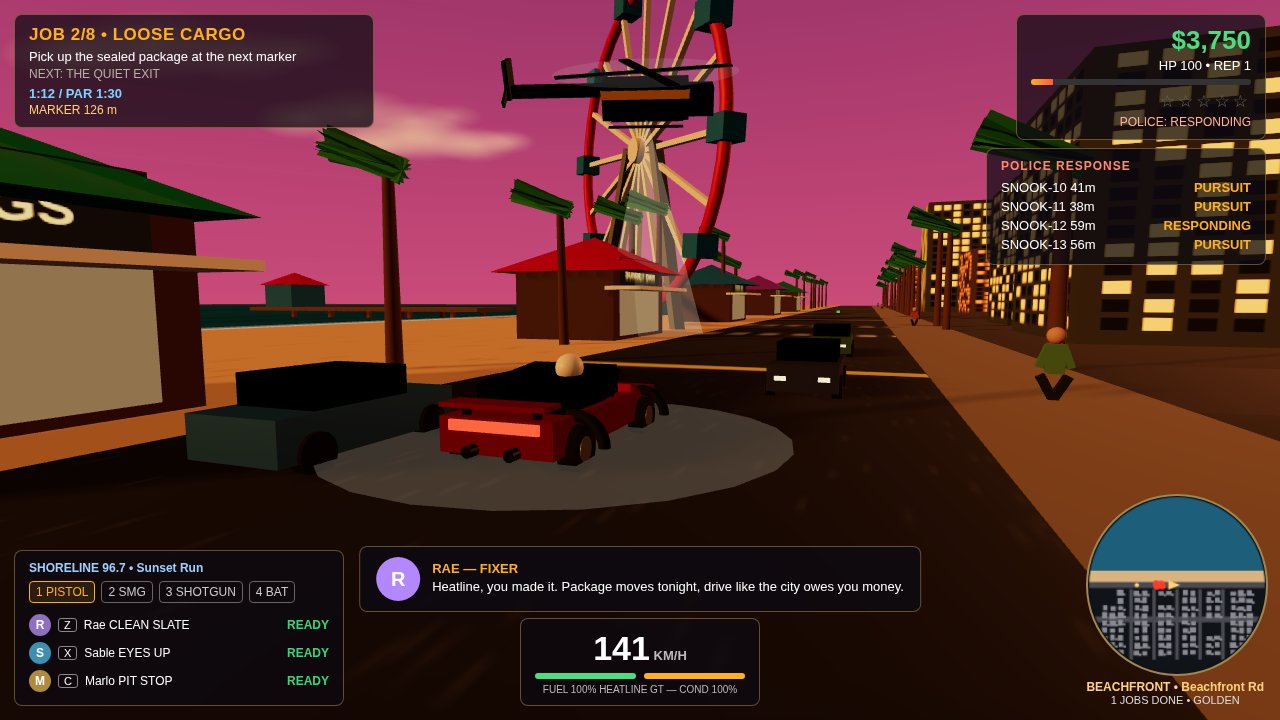
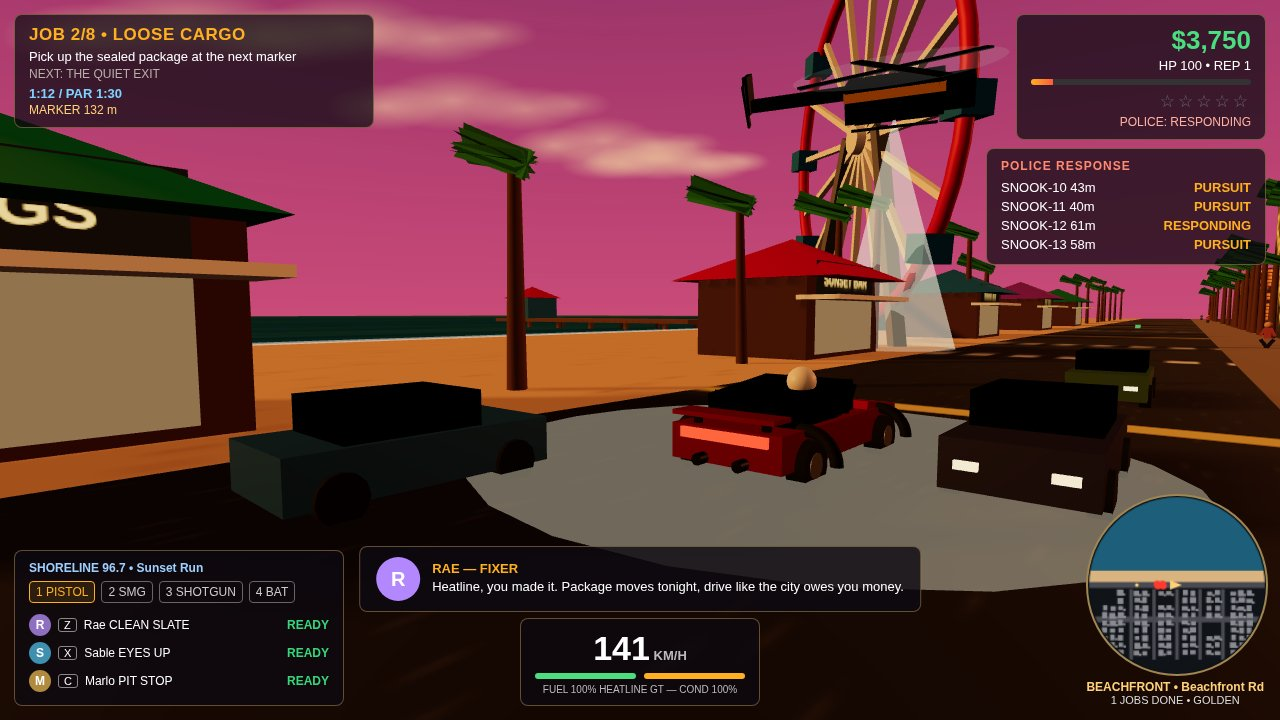
Fixer round 2 (shot 4 + shot 2): world-space pistol in full profile with steel barrel, camera-facing starburst flash, mission staged 1 alive + 2 down; heli cone 0.42 + bright pool, play camera biased to sea, foam 0.45

diff --git a/game/src/combat/fight.js b/game/src/combat/fight.js
@@ -22,38 +22,75 @@ export function buildPlayerFigure() {
     const leg = new THREE.Mesh(new THREE.BoxGeometry(0.22, 0.8, 0.22), pants);
     leg.position.set(0, 0.4, s); g.add(leg);
   }
-  // Pistol, held out on the camera side of the body where the shot
-  // camera can see it: dark slide and grip, never a pale ball.
+  // Pistol, built as a WORLD-SPACE group (not a child of the player
+  // figure): every frame updateCombat puts it at the player's gun hand
+  // and aims it along the player's aim direction, so the barrel always
+  // points at the enemy and the shot camera sees the full side profile
+  // — a big dark slide, a bright steel barrel and a dark grip, never a
+  // foreshortened blob and never a pale ball.
   const gun = new THREE.Group();
-  const grip = new THREE.Mesh(new THREE.BoxGeometry(0.11, 0.26, 0.11),
-    new THREE.MeshStandardMaterial({ color: 0x141414, roughness: 0.5, metalness: 0.4 }));
-  grip.position.y = -0.06; gun.add(grip);
-  const barrel = new THREE.Mesh(new THREE.BoxGeometry(0.5, 0.09, 0.09),
-    new THREE.MeshStandardMaterial({ color: 0x555555, roughness: 0.35, metalness: 0.8 }));
-  barrel.position.set(0.28, 0.06, 0); gun.add(barrel);
-  const slide = new THREE.Mesh(new THREE.BoxGeometry(0.42, 0.07, 0.1),
-    new THREE.MeshStandardMaterial({ color: 0x111111, roughness: 0.3, metalness: 0.8 }));
-  slide.position.set(0.26, 0.13, 0); gun.add(slide);
-  // Muzzle flash: a starburst, not a ball — a bright core plus crossed
-  // planes and a forward cone, all lit by the flash point light.
+  const grip = new THREE.Mesh(new THREE.BoxGeometry(0.14, 0.34, 0.14),
+    new THREE.MeshStandardMaterial({ color: 0x161616, roughness: 0.5, metalness: 0.4 }));
+  grip.position.set(0, -0.1, -0.05); gun.add(grip);
+  const barrel = new THREE.Mesh(new THREE.BoxGeometry(0.13, 0.13, 0.72),
+    new THREE.MeshStandardMaterial({ color: 0x9aa2ad, roughness: 0.25, metalness: 0.9 }));
+  barrel.position.set(0, 0.06, 0.37); gun.add(barrel);
+  const slide = new THREE.Mesh(new THREE.BoxGeometry(0.14, 0.1, 0.55),
+    new THREE.MeshStandardMaterial({ color: 0x0d0d0d, roughness: 0.3, metalness: 0.85 }));
+  slide.position.set(0, 0.14, 0.28); gun.add(slide);
+  const sight = new THREE.Mesh(new THREE.BoxGeometry(0.04, 0.06, 0.05),
+    new THREE.MeshBasicMaterial({ color: 0xffc860 }));
+  sight.position.set(0, 0.22, 0.58); gun.add(sight);
+  // Muzzle flash: a starburst, not a ball — a bright core, crossed
+  // spike pairs in TWO perpendicular planes (so at least one pair
+  // faces the shot camera from any angle), a forward cone, and a
+  // camera-facing starburst sprite that always reads as a flash.
   const flashGroup = new THREE.Group();
+  flashGroup.position.set(0, 0.06, 0.78);
   const flashMat = new THREE.MeshBasicMaterial({ color: 0xffe9a8, transparent: true, opacity: 0 });
-  const flashCore = new THREE.Mesh(new THREE.SphereGeometry(0.16, 8, 6), flashMat);
-  flashCore.position.set(0.6, 0.06, 0); flashGroup.add(flashCore);
+  const flashCore = new THREE.Mesh(new THREE.SphereGeometry(0.2, 8, 6), flashMat);
+  flashGroup.add(flashCore);
   const flashMat2 = new THREE.MeshBasicMaterial({ color: 0xffb020, transparent: true, opacity: 0, side: THREE.DoubleSide, depthWrite: false });
-  const spikeH = new THREE.Mesh(new THREE.PlaneGeometry(0.95, 0.22), flashMat2);
-  spikeH.position.set(0.62, 0.06, 0); flashGroup.add(spikeH);
-  const spikeV = new THREE.Mesh(new THREE.PlaneGeometry(0.22, 0.95), flashMat2);
-  spikeV.position.set(0.62, 0.06, 0); flashGroup.add(spikeV);
-  const flashCone = new THREE.Mesh(new THREE.ConeGeometry(0.24, 0.7, 10), flashMat2);
-  flashCone.rotation.z = -Math.PI / 2; flashCone.position.set(0.85, 0.06, 0); flashGroup.add(flashCone);
+  const spikeH = new THREE.Mesh(new THREE.PlaneGeometry(1.3, 0.3), flashMat2);
+  flashGroup.add(spikeH);
+  const spikeV = new THREE.Mesh(new THREE.PlaneGeometry(0.3, 1.3), flashMat2);
+  flashGroup.add(spikeV);
+  const spikeH2 = new THREE.Mesh(new THREE.PlaneGeometry(1.3, 0.3), flashMat2);
+  spikeH2.rotation.y = Math.PI / 2; flashGroup.add(spikeH2);
+  const spikeV2 = new THREE.Mesh(new THREE.PlaneGeometry(0.3, 1.3), flashMat2);
+  spikeV2.rotation.y = Math.PI / 2; flashGroup.add(spikeV2);
+  const flashCone = new THREE.Mesh(new THREE.ConeGeometry(0.3, 0.9, 10), flashMat2);
+  flashCone.rotation.x = -Math.PI / 2; flashCone.position.set(0, 0, 0.45); flashGroup.add(flashCone);
+  const starTex = (() => {
+    const c = document.createElement('canvas'); c.width = 128; c.height = 128;
+    const x = c.getContext('2d'); x.translate(64, 64);
+    for (let i = 0; i < 8; i++) {
+      x.rotate(Math.PI / 4);
+      const g = x.createLinearGradient(0, 0, 0, -62);
+      g.addColorStop(0, 'rgba(255, 240, 190, 1)');
+      g.addColorStop(0.5, 'rgba(255, 176, 32, 0.9)');
+      g.addColorStop(1, 'rgba(255, 120, 20, 0)');
+      x.fillStyle = g;
+      x.beginPath(); x.moveTo(-5, 0); x.lineTo(0, -62); x.lineTo(5, 0); x.closePath(); x.fill();
+    }
+    const core = x.createRadialGradient(0, 0, 1, 0, 0, 22);
+    core.addColorStop(0, 'rgba(255, 255, 240, 1)');
+    core.addColorStop(0.5, 'rgba(255, 210, 122, 0.95)');
+    core.addColorStop(1, 'rgba(255, 160, 40, 0)');
+    x.fillStyle = core; x.beginPath(); x.arc(0, 0, 22, 0, 7); x.fill();
+    const t = new THREE.CanvasTexture(c); t.colorSpace = THREE.SRGBColorSpace; return t;
+  })();
+  const flashSpriteMat = new THREE.SpriteMaterial({ map: starTex, transparent: true, opacity: 0, depthWrite: false });
+  const flashSprite = new THREE.Sprite(flashSpriteMat);
+  flashSprite.scale.set(2.0, 2.0, 1);
+  flashGroup.add(flashSprite);
   gun.add(flashGroup);
-  gun.position.set(0.28, 1.3, 0.3);
-  g.add(gun);
+  gun.visible = false;
+  G.scene.add(gun);
   G.player.gun = gun; G.player.flashMat = flashMat; G.player.flashMat2 = flashMat2;
-  G.player.flashGroup = flashGroup;
-  const light = new THREE.PointLight(0xffd27a, 0, 12);
-  light.position.set(0.8, 1.4, 0.3); g.add(light);
+  G.player.flashSpriteMat = flashSpriteMat; G.player.flashGroup = flashGroup;
+  const light = new THREE.PointLight(0xffd27a, 0, 14);
+  light.position.set(0, 0.06, 0.9); gun.add(light);
   G.player.flashLight = light;
 
   g.position.set(G.player.x, 0, G.player.z);
@@ -85,7 +122,7 @@ export function buildEnemies() {
     barFg.position.set(0, 2.4, 0.01); g.add(barFg);
     g.position.set(x, 0, z);
     G.scene.add(g);
-    G.enemies.push({ group: g, barFg, x, z, hp: 100, alive: true, shootTimer: 1 + i });
+    G.enemies.push({ group: g, barBg, barFg, x, z, hp: 100, alive: true, shootTimer: 1 + i });
   });
 }
 
@@ -130,12 +167,23 @@ export function updateCombat(dt) {
     p.group.position.set(p.x, 0, p.z);
     p.group.rotation.y = -p.heading;
   }
+  // World-space pistol: at the player's gun hand (right side of the
+  // aim direction), barrel along the aim, hidden whenever the player
+  // figure is hidden or the player is in the car.
+  if (p.gun) {
+    const aimX = Math.cos(p.heading), aimZ = -Math.sin(p.heading);
+    const rx = -aimZ, rz = aimX;
+    p.gun.position.set(p.x + rx * 0.5 + aimX * 0.1, 1.32, p.z + rz * 0.5 + aimZ * 0.1);
+    p.gun.lookAt(p.x + aimX * 3, 1.32, p.z + aimZ * 3);
+    p.gun.visible = !!(p.group && p.group.visible) && p.onFoot && G.mode === 'play';
+  }
   const flashing = G.time < G.flashUntil;
   if (p.flashMat) {
     p.flashMat.opacity = flashing ? 0.95 : 0;
     if (p.flashMat2) p.flashMat2.opacity = flashing ? 0.9 : 0;
+    if (p.flashSpriteMat) p.flashSpriteMat.opacity = flashing ? 0.95 : 0;
     if (p.flashGroup) p.flashGroup.visible = flashing;
-    p.flashLight.intensity = flashing ? 14 : 0;
+    p.flashLight.intensity = flashing ? 20 : 0;
   }
   // Enemies edge toward the player and shoot back inside 20 metres.
   for (const e of G.enemies) {

diff --git a/game/src/core/main.js b/game/src/core/main.js
@@ -155,9 +155,12 @@ function updateCamera(dt) {
     px = G.car.x - f[0] * 13 + r[0] * 3.2; py = 6.8; pz = G.car.z - f[1] * 13 + r[1] * 3.2;
     lx = G.car.x + f[0] * 6; ly = 1.6; lz = G.car.z + f[1] * 6;
   } else if (G.shot === 'mission') {
-    const f = [Math.cos(G.player.heading), -Math.sin(G.player.heading)];
-    px = G.player.x - f[0] * 6.5; py = 3.2; pz = G.player.z - f[1] * 6.5;
-    lx = G.player.x + f[0] * 5; ly = 1.5; lz = G.player.z + f[1] * 5;
+    // Three-quarter view from the south-east: the player's gun side
+    // (east) faces the camera, so the pistol reads in full profile
+    // against the yard instead of foreshortened from behind, and the
+    // muzzle flash sits between the player and the last enemy.
+    px = G.player.x + 4.6; py = 3.0; pz = G.player.z + 5.2;
+    lx = G.player.x - 1.5; ly = 1.4; lz = G.player.z - 8;
   } else if (G.shot === 'end') {
     // Loop complete at the lighthouse: the car parked in front of the
     // tower, the tower rising behind it, ocean beyond.
@@ -171,6 +174,10 @@ function updateCamera(dt) {
     const rx = Math.sin(h), rz = Math.cos(h);
     px = G.car.x - fx * 6.8 + rx * 5.0; py = 2.6; pz = G.car.z - fz * 6.8 + rz * 5.0;
     lx = G.car.x + fx * 7; ly = 1.2; lz = G.car.z + fz * 7;
+    // Play shot: bias the look target toward the sea (left of the
+    // heading) so the ocean, waves and foam line enter the left side
+    // of the frame instead of sitting just outside it.
+    if (G.shot === 'play') { const sea = 7; lx += fz * sea; lz += -fx * sea; }
   } else if (G.mode === 'menu') {
     const a = G.time * 0.08;
     px = G.car.x + Math.cos(a) * 26; py = 12; pz = G.car.z + Math.sin(a) * 26;
@@ -224,7 +231,7 @@ function animate() {
     G.popups = G.popups.filter((p) => p.until > G.time);
   }
   if (G.ocean) G.ocean.material.map.offset.x += dt * 0.008;
-  if (G.foam) G.foam.material.opacity = 0.28 + Math.sin(G.time * 1.4) * 0.1;
+  if (G.foam) G.foam.material.opacity = 0.45 + Math.sin(G.time * 1.4) * 0.12;
   if (G.wheel) G.wheel.rotation.z += dt * 0.12;
   if (G.lightBeam) G.lightBeam.rotation.y += dt * 0.5;
   if (G.marker.mesh) {

diff --git a/game/src/vehicles/heli.js b/game/src/vehicles/heli.js
@@ -37,11 +37,11 @@ export function buildHeli() {
   G.heliRotor = rotor;
   // Spotlight: a soft translucent cone and a bright pool where it lands.
   const cone = new THREE.Mesh(new THREE.ConeGeometry(5.5, 22, 20, 1, true),
-    new THREE.MeshBasicMaterial({ color: 0xfff2c0, transparent: true, opacity: 0.16, side: THREE.DoubleSide, depthWrite: false }));
+    new THREE.MeshBasicMaterial({ color: 0xfff2c0, transparent: true, opacity: 0.42, side: THREE.DoubleSide, depthWrite: false }));
   cone.position.y = -12; g.add(cone);
   G.heliCone = cone;
-  const pool = new THREE.Mesh(new THREE.CircleGeometry(4, 24),
-    new THREE.MeshBasicMaterial({ color: 0xffe9a8, transparent: true, opacity: 0.22, depthWrite: false }));
+  const pool = new THREE.Mesh(new THREE.CircleGeometry(5.5, 24),
+    new THREE.MeshBasicMaterial({ color: 0xffe9a8, transparent: true, opacity: 0.45, depthWrite: false }));
   pool.rotation.x = -Math.PI / 2;
   G.scene.add(pool);
   G.heliPool = pool;
@@ -74,6 +74,6 @@ export function updateHeli(dt) {
   // The cone hangs straight down from the heli; the pool sits on the
   // road under the player, so the beam reads as tracking the car.
   G.heliPool.position.set(px, 0.2, pz);
-  const pulse = 0.2 + Math.sin(G.time * 3) * 0.04;
+  const pulse = 0.45 + Math.sin(G.time * 3) * 0.05;
   G.heliPool.material.opacity = pulse;
 }

diff --git a/game/src/ui/shots.js b/game/src/ui/shots.js
@@ -65,6 +65,30 @@ export function applyShot(name) {
     G.flashUntil = 1e9;
     // No police in the yard frame: the sweep is the player's job alone.
     G.suppressPolice = true;
+    // TARGETS 2/3 with $9,550: two bounties are already banked, so two
+    // of the three yard crew are DOWN on the ground (no health bar) and
+    // only one is left standing in the open with a full green bar.
+    if (G.enemies.length >= 3) {
+      const down = (e) => {
+        e.alive = false; e.hp = 0;
+        e.group.rotation.x = -Math.PI / 2;
+        e.group.position.y = 0.3;
+        if (e.barBg) e.barBg.visible = false;
+        if (e.barFg) e.barFg.visible = false;
+      };
+      down(G.enemies[1]); down(G.enemies[2]);
+      const lead = G.enemies[0];
+      lead.alive = true; lead.hp = 100;
+      lead.x = 162; lead.z = 154;
+      lead.group.position.set(162, 0, 154);
+      lead.group.rotation.x = 0;
+      if (lead.barBg) lead.barBg.visible = true;
+      if (lead.barFg) {
+        lead.barFg.visible = true;
+        lead.barFg.scale.x = 1; lead.barFg.position.x = 0;
+        lead.barFg.material.color.set(0x37d67a);
+      }
+    }
   } else if (name === 'end') {
     G.car.x = -238; G.car.z = -32; G.car.heading = 0.6; G.car.speed = 0;
     G.car.inCar = false; G.player.onFoot = true;
